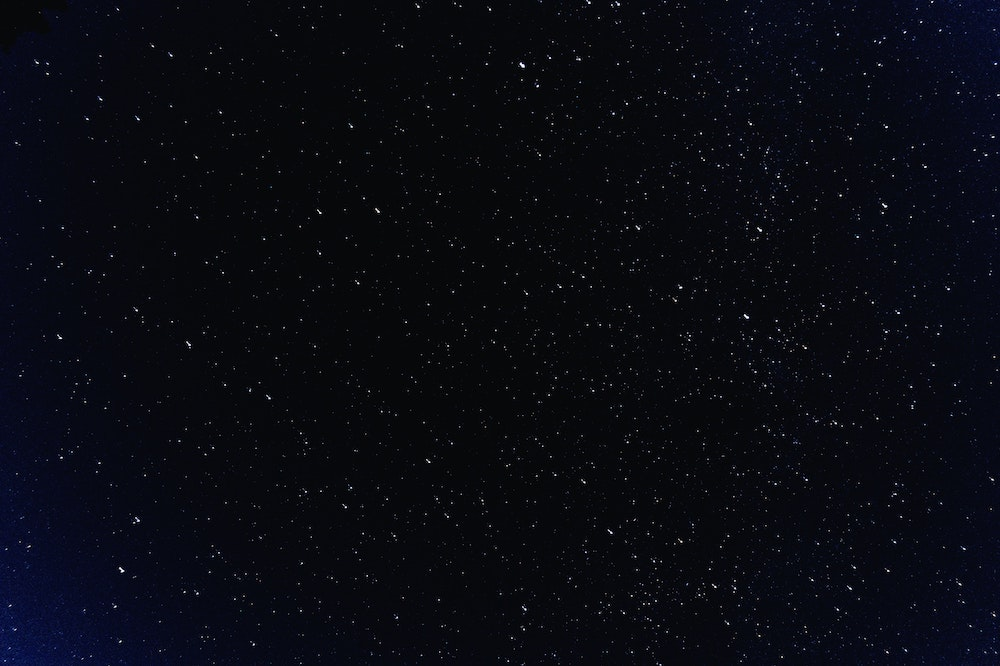
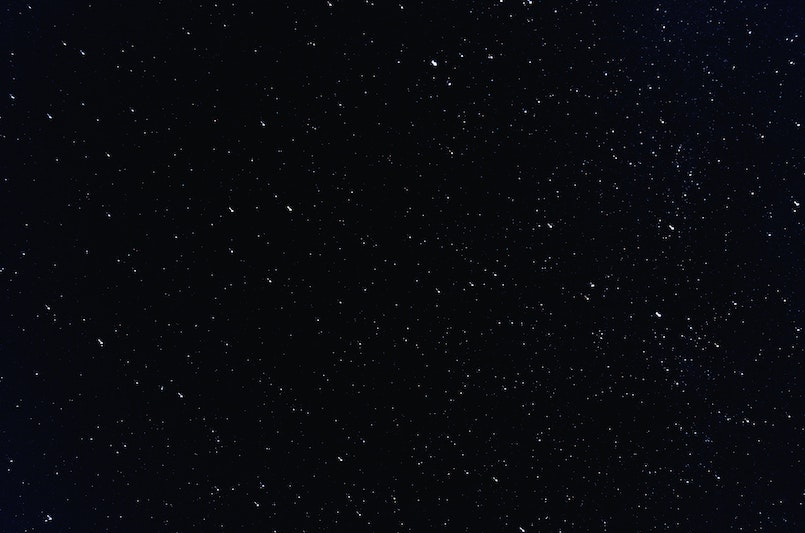
header

diff --git a/css copy/style.css b/css copy/style.css
@@ -2,20 +2,26 @@ body {
   margin: 0;
 }
 header {
-  background-color: #ffffff;
   height: 50px;
+  background-color: transparent;
 }
 header ul {
   float: right;
-  color: #000000;
+  color: #ffffff;
+  padding-right: 20px;
+  padding-top: 5px;
   
 }
 header li {
-  display: inline-block;
-  padding: 0px 5px;
-  font-family: degular, sans-serif;
+display: inline-block;
+padding: 0px 10px;
+
+font-family: degular, sans-serif;
 font-style: normal;
 font-weight: 200;
+color: #ffffff;
+text-decoration: underline;
+
 }
 header p {
   display: inline-block;
@@ -25,11 +31,16 @@ header p {
   padding: 100px 15px;
 }
 
-
+a:visited { 
+  color: inherit;
+  font-style: initial;
+  
+}
 
 .nameHeader {
   position: relative;
   padding-top: 70px;
+  margin: 0;
 }
 .title {
   height: 300px;

diff --git a/index.html b/index.html
@@ -6,6 +6,11 @@
     <link rel="stylesheet" href="https://use.typekit.net/nmc1gck.css">
   </head>
   <body>
+    <style>
+      body {
+        background-image: url('images copy/stars.jpg')
+      }
+      </style>
     <header>
       <ul>
         <li><a href="index.html">HOME</a></li>
